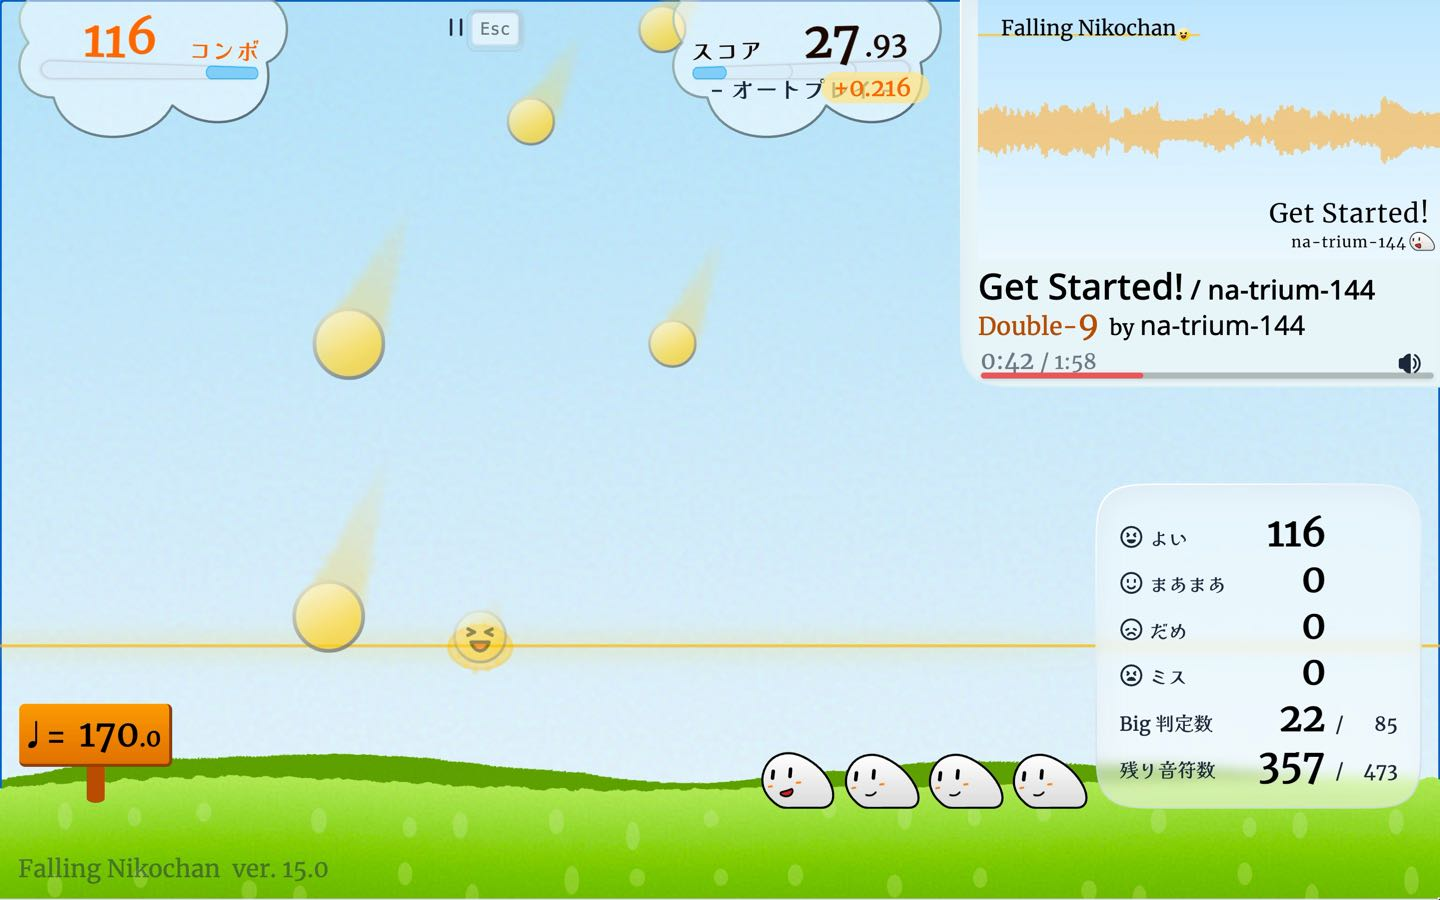
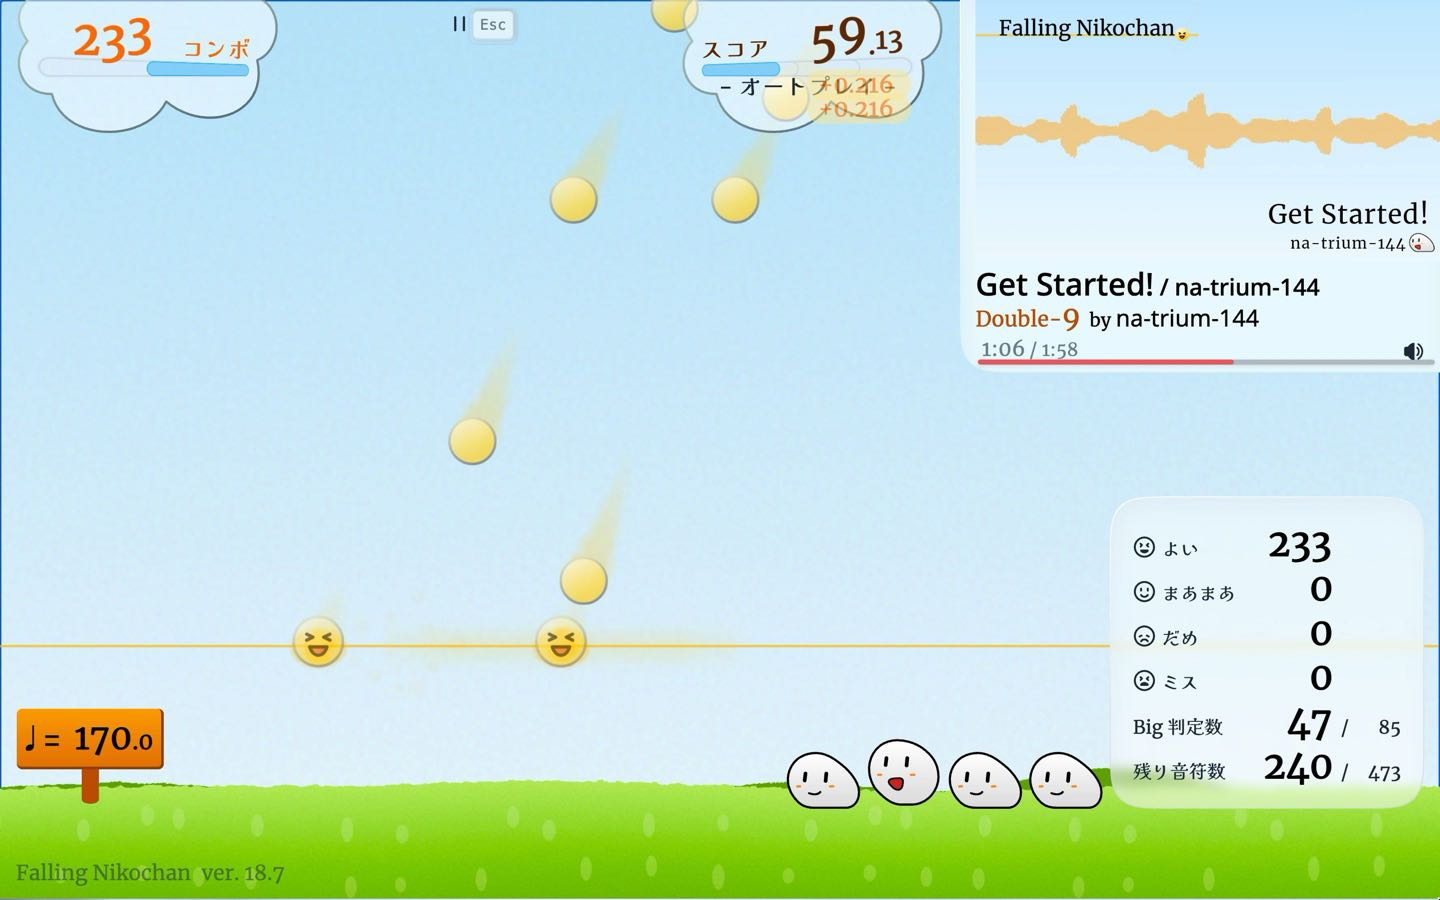
nikochanのスクリーンショットと説明を現行バージョン(v18)に合わせて更新 (#358)

diff --git a/contents/projects/nikochan/index.md b/contents/projects/nikochan/index.md
@@ -20,27 +20,18 @@ social:
   twitter: https://x.com/nikochan144
 ---
 
-## 概要
+## Falling Nikochan とは？
 
 ダウンロード不要でブラウザーからすぐに遊べる、シンプルでかわいいリズムゲーム (音ゲー) です。
-PC だけでなくタブレットやスマートフォンなどでも手軽に遊べます。
 
-さらに、 Falling Nikochan では遊ぶだけでなく、アカウント登録やログイン不要で誰でも譜面を作成することができます。
-作成した譜面はサーバーに保存され、SNS などで簡単に共有して他の人に遊んでもらうこともできます。
-
-## 遊び方
-
-ニコチャンが線に重なったときに音符を叩くだけの簡単なルールです。
-ニコチャンの位置や飛び方によらず、 PC なら (Esc 以外の) どれかのキーを押して、タブレット・スマホなら画面のどこかをタップすることで音符を叩くことができます。
+ニコチャンが線に重なったときにどれかのキーを押すか画面のどこかをタップするだけの簡単なルールで、PCだけでなくタブレットやスマートフォンなどでも手軽に遊べるのが特徴です。
 
 大きいニコチャンも通常のニコチャンと同じように叩けますが、2つのキーを同時押しまたは2本指でタップすると、通常より多くのスコアが入ります。
-ミスせず連続でニコチャンを叩くほどコンボボーナス点が入り、より多くのスコアがもらえます。
 
 ## 譜面を作ろう
 
-好きな楽曲を使って譜面を作ることができます。
-Falling Nikochan では音源をダウンロードする必要はなく、YouTube を埋め込んで音源を再生するので、YouTube にアップロードされている楽曲であればなんでも使用できます。
-音源を再配布しているわけではないので、 (違法アップロードされているものや YouTube 埋め込みでの利用を禁止されているものなどを除き) ほとんどの場合著作権などで問題になることはありません。
+Falling Nikochan では誰でも譜面を作って公開することができます。
 
-譜面を作って Falling Nikochan のサーバーにアップロードすると、譜面ID (6桁の数字) が発行されます。
-その譜面IDまたは譜面のURL (nikochan.utcode.net/share/〜) をSNSなどで共有することで、遊んでもらうことができます。
+Falling Nikochan ではYouTubeを埋め込んで音源を再生するので、YouTube にアップロードされている楽曲であればなんでも使用できます。
+
+作成した譜面は、発行される譜面ID (6桁の数字) または譜面のURL (nikochan.utcode.net/share/〜) を共有して他のユーザーに遊んでもらうことができます。
